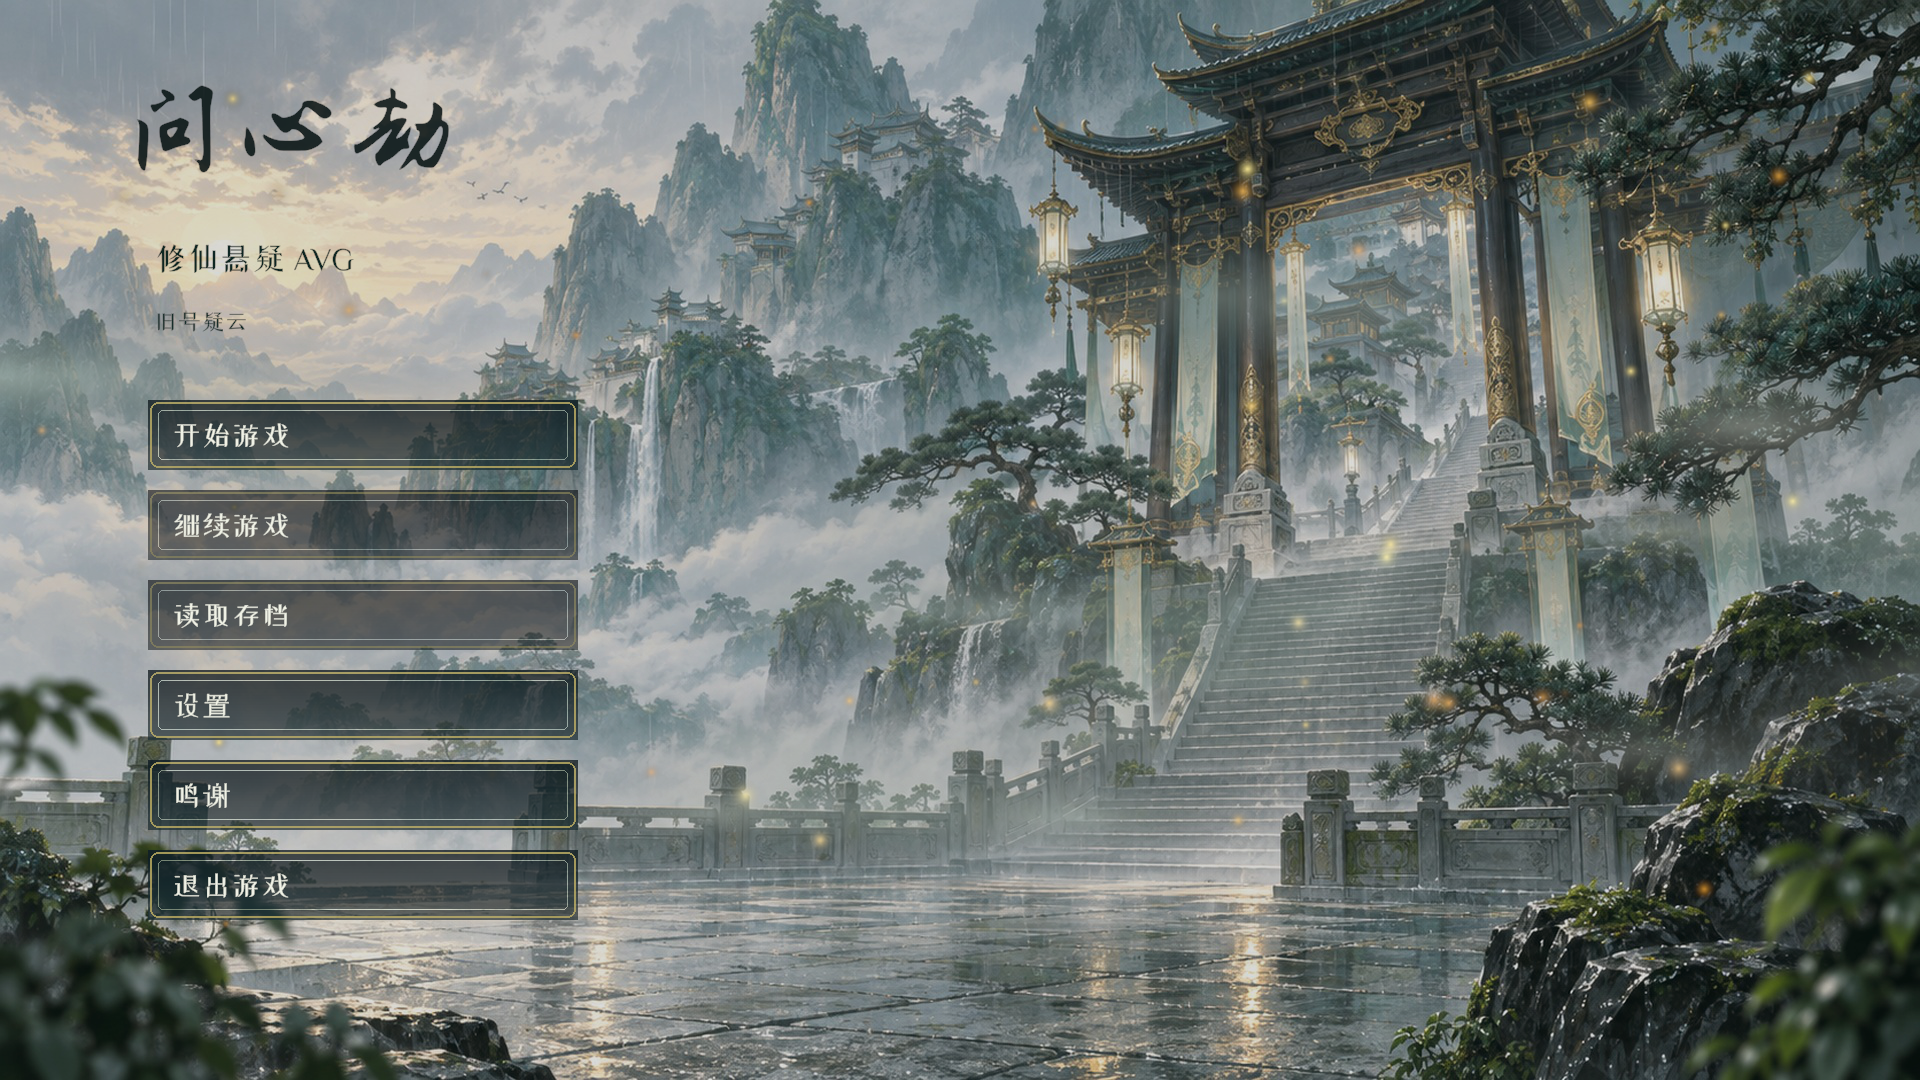
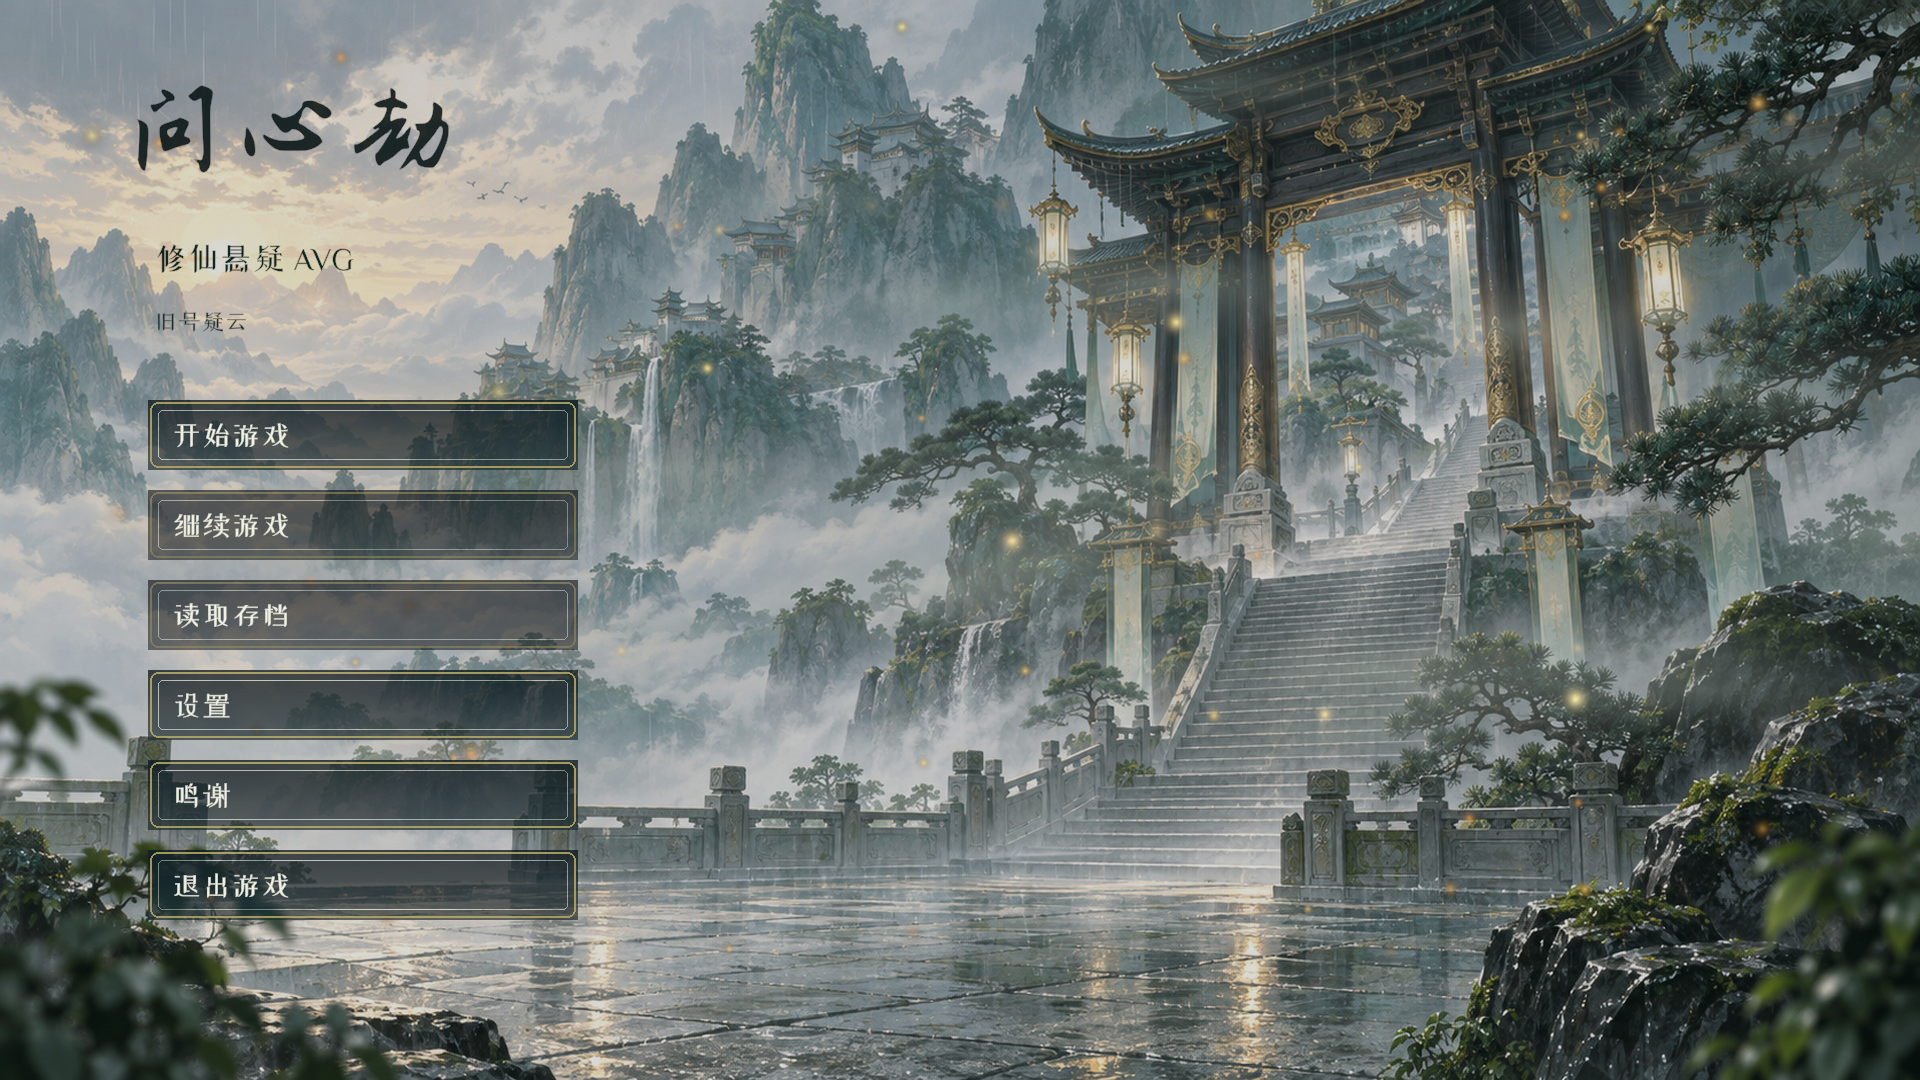
feat: add Shen Yan field survey and witnessed measurement

diff --git a/Assets/_WenXinJie/Editor/CampaignPlayModeChecks.cs b/Assets/_WenXinJie/Editor/CampaignPlayModeChecks.cs
@@ -163,9 +163,10 @@ namespace WenXinJie.Editor
                 await Capture("Docs/Validation/campaign-shared-secret-1080.png");
                 await VerifyAdditionalRoutes(application, reader);
                 await VerifyGuInspection(application, reader);
+                await VerifyShenSurvey(application, reader);
                 LastReport = "Campaign Play Mode checks PASS: case inference, spell, premature confrontation, "
                              + "case save/load, main menu start/continue/load, actual choice click, "
-                             + "Gu Heng's supervised inspection, four first-night routes, day-seven continuation and new clues, background fades, "
+                             + "Gu Heng's supervised inspection, Shen Yan's field survey, four first-night routes, day-seven continuation and new clues, background fades, "
                              + "isolated save/load, and 1920x1080 capture.";
                 Debug.Log(LastReport);
             }
@@ -385,6 +386,39 @@ namespace WenXinJie.Editor
             Require(application.Session.GetValue("case.controlSample") == 1
                     && application.Session.GetValue("case.villageWitness") == 1,
                 "The supervised ash comparison did not leave a signed sample.");
+        }
+
+        private static async Task VerifyShenSurvey(StoryApplication application, DialogueReader reader)
+        {
+            application.StartNewGame();
+            Choose(application, reader, "post");
+            Advance(application, reader);
+            Choose(application, reader, "borrowed");
+            Advance(application, reader);
+            Choose(application, reader, "ink");
+            Advance(application, reader);
+            Choose(application, reader, "sense");
+            Advance(application, reader);
+            Choose(application, reader, "sample");
+            Advance(application, reader);
+            Choose(application, reader, "uncertain");
+            Advance(application, reader);
+            Choose(application, reader, "shen");
+            Advance(application, reader);
+            Choose(application, reader, "paper");
+            Advance(application, reader);
+            Choose(application, reader, "signature");
+            Advance(application, reader);
+            Require(application.Session.Current.id == "route.shen.trial",
+                "Shen Yan's field trial was not reached.");
+            VerifyChoiceAvailability(4);
+            Choose(application, reader, "survey");
+            reader.Complete();
+            await Capture("Docs/Validation/shen-field-survey-1080.png");
+            Choose(application, reader, "witness");
+            Require(application.Session.GetValue("case.returnMeasured") == 1
+                    && application.Session.GetValue("case.publicRecord") == 1,
+                "Witnessed field survey did not retain its measurement and public record.");
         }
 
         private static void ReachActionHub(StoryApplication application, DialogueReader reader)

diff --git a/Assets/_WenXinJie/Editor/CampaignSmokeTests.cs b/Assets/_WenXinJie/Editor/CampaignSmokeTests.cs
@@ -17,7 +17,7 @@ namespace WenXinJie.Editor
         public static void Run()
         {
             var graph = LoadGraph();
-            Require(graph.Nodes.Count() == 240, "Unexpected node count.");
+            Require(graph.Nodes.Count() == 246, "Unexpected node count.");
             VerifyCaseSlice(graph);
             VerifyNewStory(graph);
             VerifyRoute(graph, "investigate", "copyPage", "visit", "confide", "shared", "c01.shared", true);
@@ -30,7 +30,7 @@ namespace WenXinJie.Editor
             VerifyInvalidContentRejected();
             VerifyAssets(graph);
             Debug.Log(
-                "Campaign smoke tests PASS: 240-node graph, evidence-dependent openings, Lin Yue rescue, Gu Heng inspection, three-party hearing, endings, save round-trip and assets.");
+                "Campaign smoke tests PASS: 246-node graph, evidence-dependent openings, Lin Yue rescue, Gu Heng inspection, Shen Yan survey, three-party hearing, endings, save round-trip and assets.");
         }
 
         private static StoryGraph LoadGraph()
@@ -225,6 +225,20 @@ namespace WenXinJie.Editor
                     && supervised.GetValue("case.villageWitness") == 1
                     && supervised.GetValue("case.villageConsent") == 1,
                 "The artisan's furnace witness did not affect village consent.");
+
+            var correctedSurvey = new StorySession(graph);
+            ReachCaseMeet(correctedSurvey, "post", "borrowed", "ink", "sense", "sample");
+            Require(correctedSurvey.Choose("number") && correctedSurvey.Advance()
+                    && correctedSurvey.Choose("shen") && correctedSurvey.Advance()
+                    && correctedSurvey.Choose("rubbing") && correctedSurvey.Advance()
+                    && correctedSurvey.Choose("signature") && correctedSurvey.Advance()
+                    && correctedSurvey.Choose("survey") && correctedSurvey.Choose("copy")
+                    && correctedSurvey.Choose("redo") && correctedSurvey.Advance()
+                    && correctedSurvey.Advance() && correctedSurvey.Current.id == "case.boundary",
+                "The wrong survey reference could not be corrected in the field.");
+            Require(correctedSurvey.GetValue("case.returnMeasured") == 1
+                    && correctedSurvey.GetValue("risk.attention") > 0,
+                "The corrected survey lost its measured result or cost.");
         }
 
         private static void ReachCaseMeet(StorySession session, string entry, string guess,

diff --git a/Docs/DEVELOPMENT_STATUS.md b/Docs/DEVELOPMENT_STATUS.md
@@ -4,16 +4,16 @@
 
 ## 当前可运行内容
 
-- 正式入口为 `Assets/_WenXinJie/Scenes/Game.unity`，剧情数据为 `Assets/_WenXinJie/Data/Campaign.json`，当前 revision 11，共 240 节点。其中旧十日素材 95 节点仅保留隐藏的开发入口；其余节点构成可从开局走到结局的短篇结构。
+- 正式入口为 `Assets/_WenXinJie/Scenes/Game.unity`，剧情数据为 `Assets/_WenXinJie/Data/Campaign.json`，当前 revision 12，共 246 节点。其中旧十日素材 95 节点仅保留隐藏的开发入口；其余节点构成可从开局走到结局的短篇结构。
 - 开局可先保全帖背原纸、查失踪者去向栏或追问交接人；三种入口分别留下不同证据与警觉。辨气由主角从入门册练习，炉灰活息可通过同批未入炉灰样复验，但仍需核对身份。开局证据可在林月、公开调查与沈砚底稿路线开启不同取证场景，进入裂隙实测、替阵试验、补证与终局；四种结局方向具有不同的执行结果，替阵与撤离会因准备而变化。
-- 线索簿现有 26 条新剧情条目，支持分页。林月路线有二更救援与侧门回流复测；顾衡路线新增受监督查炉，玩家可请村民工匠见证、追转运车或做双灰对照，再决定公开事实的范围。工匠签记可在终章帮助低处住户亲自核对风险并同意暂迁。其他已实现的三方核验、终局准备与主要界面继续可用。沈砚、顾衡和村落尚无对应正式美术；新增剧情暂复用现有背景。
+- 线索簿现有 26 条新剧情条目，支持分页。林月路线有二更救援与侧门回流复测；顾衡路线有受监督查炉；沈砚路线新增缺失刻度的现场复测，旧拓片误差可补测或封存，家属与工匠也能亲眼见证时差与叫停。各线证据进入已实现的三方核验和终局准备。沈砚、顾衡和村落尚无对应正式美术；新增剧情暂复用现有背景。
 - 当前新增路线仍很短，证据与人物冲突需要大幅扩写。开局已增加可核查的原始证据与后续路线入口，但仍不足以支撑完整时长。旧十日素材也未按新玩法改写。三十日日程、重复养成和随机事件池不是当前设计目标。
 - 规则层已有可存档复现的随机结果基础，正式新剧情没有使用随机事件。
 
 ## 最近验证
 
-- 2026-09-29：Unity MCP 在当前 `Game.unity` 成功执行 `CampaignSmokeTests`，覆盖 240 节点剧情图、林月救援与符尾复测、顾衡受监督查炉和村民同意、三方核验、旧素材、存读档与资源目录。Unity 脚本编译成功。
-- 2026-09-29：正式 `Game.unity` 的 Play Mode 回归通过，覆盖开局、林月二更窗口、顾衡查炉、首页、旧素材、线索簿分页、背景切换和隔离存读档；画布为 1920×1080。`Validation/lin-rescue-window-1080.png` 与 `Validation/gu-supervised-inspection-1080.png` 已逐屏检查；其他新添分支仍未逐屏做 UI 检查。
+- 2026-09-29：Unity MCP 在当前 `Game.unity` 成功执行 `CampaignSmokeTests`，覆盖 246 节点剧情图、林月救援与符尾复测、顾衡受监督查炉、沈砚错误刻度补测、三方核验、旧素材、存读档与资源目录。Unity 脚本编译成功。
+- 2026-09-29：正式 `Game.unity` 的 Play Mode 回归通过，覆盖开局、林月二更窗口、顾衡查炉、沈砚现场复测、首页、旧素材、线索簿分页、背景切换和隔离存读档；画布为 1920×1080。`Validation/lin-rescue-window-1080.png`、`Validation/gu-supervised-inspection-1080.png` 与 `Validation/shen-field-survey-1080.png` 已逐屏检查；其他新添分支仍未逐屏做 UI 检查。
 - 未完成真人跨周目新增体验计时、完整谜案玩法验证、Windows 发行构建与完整商用资产审计。当前不能宣称达到六小时，也不能把短篇结构当作完整商业游戏。
 
 ## 下一里程碑
